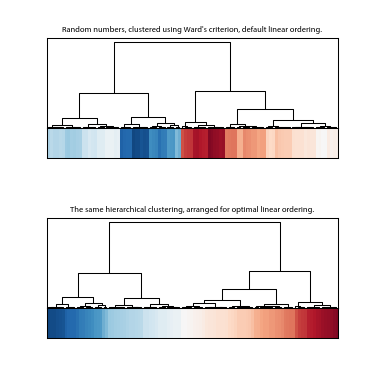
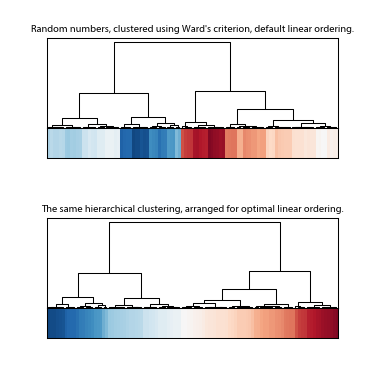
change font on demo figure

Changed region(s): [[0.1173, 0.528, 0.9093, 0.5867], [0.0587, 0.0587, 0.9387, 0.088]]

diff --git a/polo/test.py b/polo/test.py
@@ -119,7 +119,7 @@ def make_figure():
 
     fig = plt.figure(figsize=(5,5))
     axd1 = fig.add_subplot(gs[0,0])
-    axd1.set_title("Random numbers, clustered using Ward's criterion, default linear ordering.", fontsize=8)
+    axd1.set_title("Random numbers, clustered using Ward's criterion, default linear ordering.", fontsize=10)
     dendrogram(Z, ax=axd1, link_color_func=lambda k: 'k')
     axd1.set_xticklabels(data[order].reshape(-1))
     axd1.set_xticks([])
@@ -131,7 +131,7 @@ def make_figure():
     axh1.set_yticks([])
 
     axd2 = fig.add_subplot(gs[3,0])
-    axd2.set_title("The same hierarchical clustering, arranged for optimal linear ordering.", fontsize=8)
+    axd2.set_title("The same hierarchical clustering, arranged for optimal linear ordering.", fontsize=10)
     dendrogram(opt_Z, ax=axd2, link_color_func=lambda k: 'k')
     axd2.set_xticklabels(data[opt_order].reshape(-1))
     axd2.set_xticks([])
